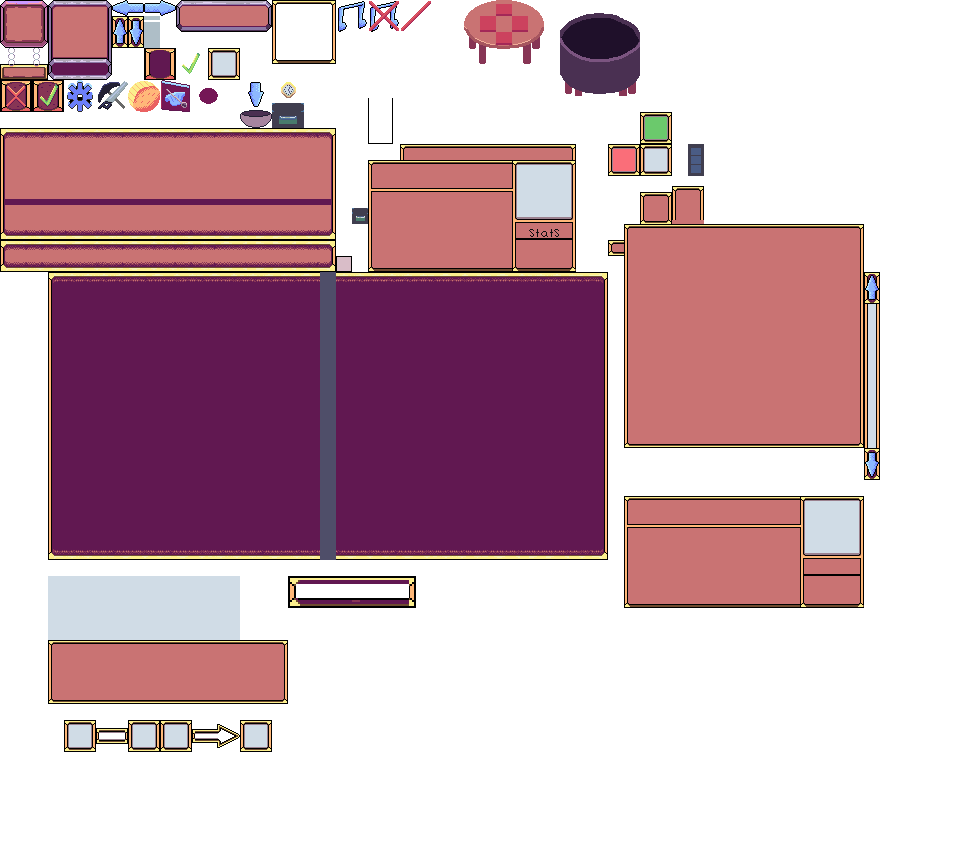
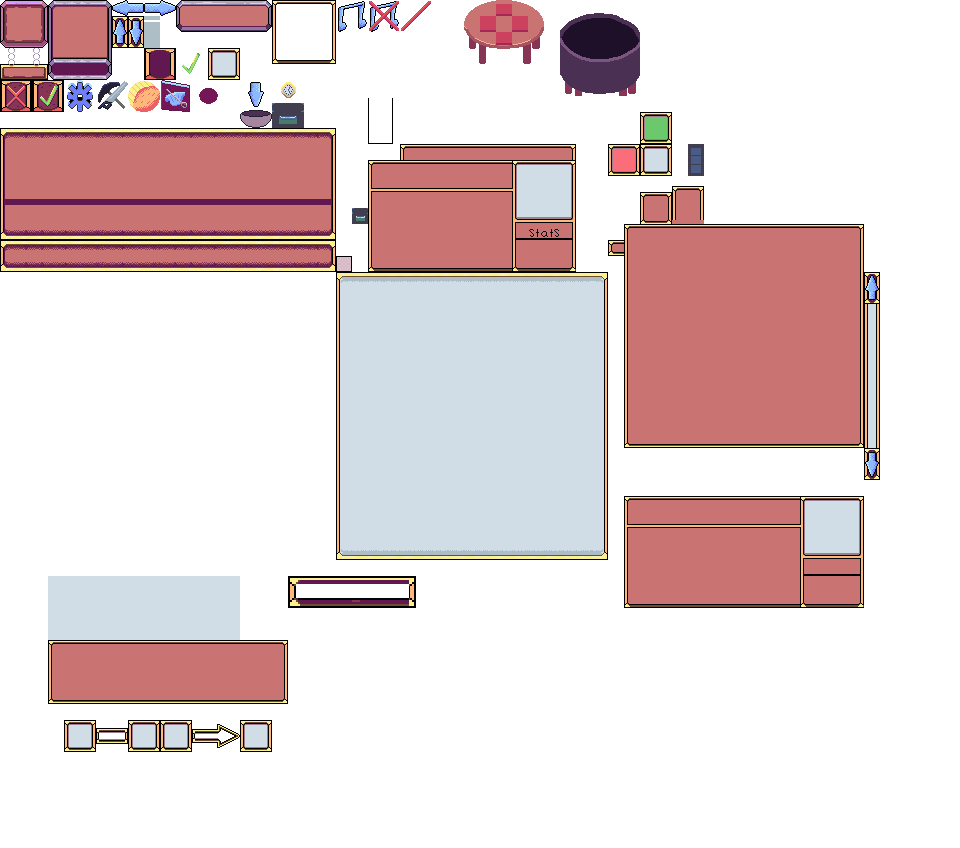
change talking window

Changed region(s): [[0.0312, 0.3066, 0.6562, 0.6745]]

diff --git a/UIEngine/Classes/TextStuff/TalkingWindow.cs b/UIEngine/Classes/TextStuff/TalkingWindow.cs
@@ -21,22 +21,24 @@ namespace UIEngine.Classes.TextStuff
 {
     public class TalkingWindow : InterfaceSection
     {
-        private NineSliceSprite BackdropSprite { get; set; }
+        private Rectangle _backgroundSourceRectangle = new Rectangle(336, 272, 272, 288);
+        private Sprite BackdropSprite { get; set; }
         private TextBuilder TextBuilder { get; set; }
 
         public Direction DirectionPlayerShouldFace { get; set; }
 
         private Vector2 _textOffSet = new Vector2(16, 16);
+
+        private Vector2 _scale = new Vector2(2f, 2f);
         public TalkingWindow(InterfaceSection interfaceSection, GraphicsDevice graphicsDevice, ContentManager content, Vector2? position, float layerDepth) :
            base(interfaceSection, graphicsDevice, content, position, layerDepth)
         {
             Position = new Vector2(Position.X + Settings.Gutter, Position.Y);
-            Rectangle totalBackDropRectangleDimensions = new Rectangle(0, 0, Settings.ScreenWidth - Settings.Gutter * 2, 128);
-            Position = RectangleHelper.PlaceBottomLeftScreen(totalBackDropRectangleDimensions);
-            BackdropSprite = SpriteFactory.CreateNineSliceSprite(Position,
-                totalBackDropRectangleDimensions.Width,
-                totalBackDropRectangleDimensions.Height, UI.ButtonTexture, GetLayeringDepth(UILayeringDepths.Back));
-            TextBuilder = new TextBuilder(TextFactory.CreateUIText("Dialogue Test", GetLayeringDepth(UILayeringDepths.Front)), .05f);
+            Position = RectangleHelper.PlaceTopRightScreen(RectangleHelper.RectangleToScale(_backgroundSourceRectangle, _scale));
+            BackdropSprite = SpriteFactory.CreateUISprite(Position, _backgroundSourceRectangle,
+                UI.ButtonTexture, GetLayeringDepth(UILayeringDepths.Back),scale :_scale);
+            TextBuilder = new TextBuilder(TextFactory.CreateUIText("Dialogue Test", GetLayeringDepth(UILayeringDepths.Front),.5f),
+                .05f);
             Deactivate();
 
 
@@ -51,7 +53,13 @@ namespace UIEngine.Classes.TextStuff
         private void AddSpeechCommand(string[] args)
         {
             DirectionPlayerShouldFace = Direction.Down;
-            CreateTalkingText(args[0]);
+            string totalString = string.Empty;
+            foreach(string arg in args)
+            {
+                totalString += " ";
+                totalString += arg;
+            }
+            CreateTalkingText(totalString);
         }
 
         public override void Update(GameTime gameTime)
@@ -102,7 +110,7 @@ namespace UIEngine.Classes.TextStuff
         public void CreateTalkingText(string speech)
         {
             TextBuilder.ClearText();
-            TextBuilder.SetText(TextFactory.CreateUIText(speech, GetLayeringDepth(UILayeringDepths.Front), scale: 2f), false);
+            TextBuilder.SetText(TextFactory.CreateUIText(speech, GetLayeringDepth(UILayeringDepths.Front), scale: 1f), false);
             Activate();
 
             UI.DeactivateAllCurrentSectionsExcept(new List<InterfaceSection>() { this, UI.ClockBar });

diff --git a/Globals/Classes/Helpers/RectangleHelper.cs b/Globals/Classes/Helpers/RectangleHelper.cs
@@ -17,6 +17,13 @@ namespace Globals.Classes.Helpers
             Vector2 returnVal = new Vector2(centerScreen.X + Settings.BarWidth - rectangle.Width * (float)scale / 2, centerScreen.Y + Settings.BarHeight - rectangle.Height / 2 * (float)scale);
             return returnVal;
         }
+
+
+        public static Rectangle RectangleToScale(Rectangle oldRectangle, Vector2 scale)
+        {
+            return new Rectangle(oldRectangle.X, oldRectangle.Y, (int)((float)oldRectangle.Width * scale.X),
+                (int)(((float)oldRectangle.Height * scale.Y)));
+        }
         public static Vector2 CenterRectangleOnScreen(int width, int height, float? scale = null)
         {
             scale = scale ?? Settings.GameScale;
